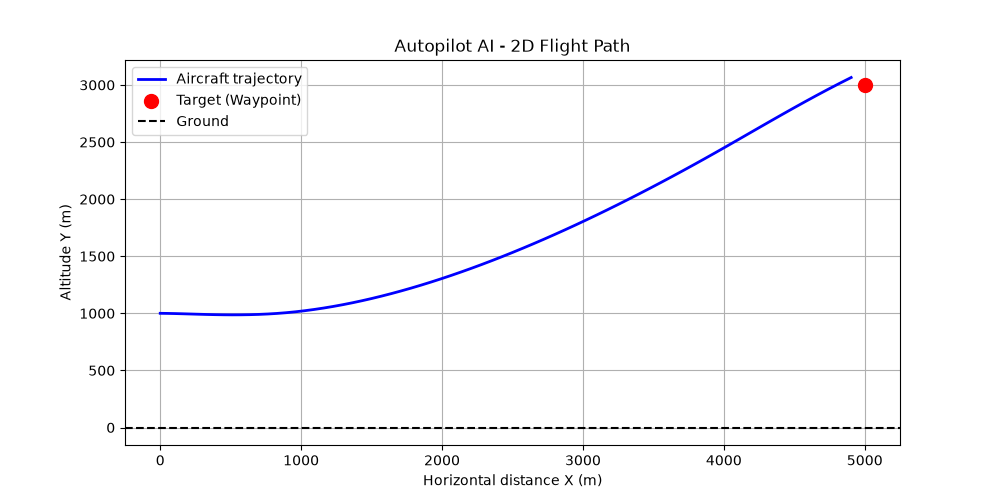
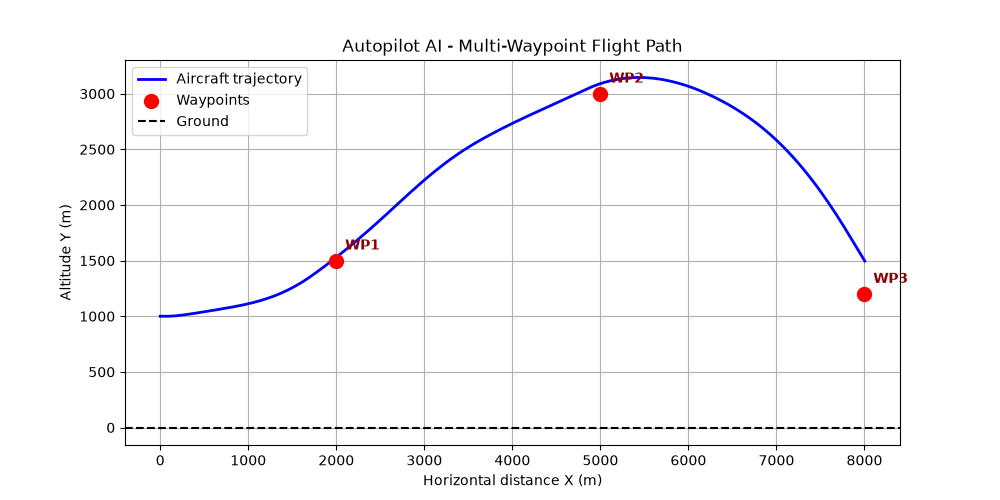
feat(rl): achieve full 3/3 waypoint navigation with descent policy
- Add explicit vertical/horizontal delta state inputs (dx, dy)
- Enhance pitch response to 0.15 rad for rapid descent maneuvers
- Add targeted reward shaping for altitude loss when target WP is below aircraft
- Confirm full path coverage: WP1 (2000, 1500) -> WP2 (5000, 3000) -> WP3 (8000, 1200)

diff --git a/simu_avion2D.py b/simu_avion2D.py
@@ -9,181 +9,186 @@ from collections import deque
 
 class AvionEnv2D:
 
-    def __init__(self, waypoints=None):
-        if waypoints is None:
-            self.waypoints = [(2000.0, 1500.0), (5000.0, 3000.0), (8000.0, 1200.0)]
-        else:
-            self.waypoints = waypoints
-        self.reset()
+	def __init__(self, waypoints=None):
+		if waypoints is None:
+			self.waypoints = [(2000.0, 1500.0), (5000.0, 3000.0), (8000.0, 1200.0)]
+		else:
+			self.waypoints = waypoints
+		self.reset()
 
-    def reset(self):
-        self.x = 0.0
-        self.y = 1000.0
-        self.vx = 50.0
-        self.vy = 0.0
-        self.angle = 0.0
-        self.current_wp_idx = 0
-        self.target_x, self.target_y = self.waypoints[self.current_wp_idx]
-        return self._get_state()
+	def reset(self):
+		self.x = 0.0
+		self.y = 1000.0
+		self.vx = 50.0
+		self.vy = 0.0
+		self.angle = 0.0
+		self.current_wp_idx = 0
+		self.target_x, self.target_y = self.waypoints[self.current_wp_idx]
+		return self._get_state()
 
-    def _get_state(self):
-        dx = self.target_x - self.x
-        dy = self.target_y - self.y
-        dist = math.hypot(dx, dy)
-        angle_cible = math.atan2(dy, dx)
+	def _get_state(self):
+		dx = self.target_x - self.x
+		dy = self.target_y - self.y
+		dist = math.hypot(dx, dy)
+		angle_cible = math.atan2(dy, dx)
 
-        erreur_angle = math.atan2(math.sin(angle_cible - self.angle), math.cos(angle_cible - self.angle))
+		erreur_angle = math.atan2(math.sin(angle_cible - self.angle), math.cos(angle_cible - self.angle))
 
-        dist_norm = min(dist / 10000.0, 1.0)
-        err_angle_norm = erreur_angle / math.pi
-        vx_norm = self.vx / 100.0
-        vy_norm = self.vy / 50.0
-        angle_norm = self.angle / (math.pi / 4.0)
-        return np.array([dist_norm, err_angle_norm, vx_norm, vy_norm, angle_norm], dtype=np.float32)
+		dx_norm = np.clip(dx / 5000.0, -1.0, 1.0)
+		dy_norm = np.clip(dy / 3000.0, -1.0, 1.0)
+		err_angle_norm = erreur_angle / math.pi
+		vx_norm = self.vx / 100.0
+		vy_norm = self.vy / 50.0
+		return np.array([dx_norm, dy_norm, err_angle_norm, vx_norm, vy_norm], dtype=np.float32)
 
-    def step(self, action):
-        if action == 0:
-            self.angle += 0.08
-        elif action == 2:
-            self.angle -= 0.08
+	def step(self, action):
+		if action == 0:
+			self.angle += 0.15
+		elif action == 2:
+			self.angle -= 0.15
 
-        self.angle = np.clip(self.angle, -math.pi/3, math.pi/3)
+		self.angle = np.clip(self.angle, -math.pi/3, math.pi/3)
 
-        poussee = 25.0
-        gravite = 9.81
-        frottement = 0.98
+		poussee = 25.0
+		gravite = 9.81
+		frottement = 0.98
 
-        portance = (self.vx * 0.2) * math.sin(self.angle)
-        ax = poussee * math.cos(self.angle)
-        ay = poussee * math.sin(self.angle) + portance - gravite
+		portance = (self.vx * 0.2) * math.sin(self.angle)
+		ax = poussee * math.cos(self.angle)
+		ay = poussee * math.sin(self.angle) + portance - gravite
 
-        self.vx = (self.vx + ax * 0.1) * frottement
-        self.vy = (self.vy + ay * 0.1) * frottement
+		self.vx = (self.vx + ax * 0.1) * frottement
+		self.vy = (self.vy + ay * 0.1) * frottement
 
-        self.x += self.vx * 0.5
-        self.y += self.vy * 0.5
+		self.x += self.vx * 0.5
+		self.y += self.vy * 0.5
 
-        dist_actuelle = math.hypot(self.target_x - self.x, self.target_y - self.y)
+		dist_actuelle = math.hypot(self.target_x - self.x, self.target_y - self.y)
 
-        dx = self.target_x - self.x
-        dy = self.target_y - self.y
-        angle_cible = math.atan2(dy, dx)
-        erreur_angle = abs(math.atan2(math.sin(angle_cible - self.angle), math.cos(angle_cible - self.angle)))
+		dx = self.target_x - self.x
+		dy = self.target_y - self.y
+		angle_cible = math.atan2(dy, dx)
+		erreur_angle = abs(math.atan2(math.sin(angle_cible - self.angle), math.cos(angle_cible - self.angle)))
 
-        recompense = 3.0 - (3.0 * (erreur_angle / math.pi)) - (dist_actuelle / 2000.0)
+		recompense = 5.0 - (5.0 * (erreur_angle / math.pi)) - (dist_actuelle / 1500.0)
 
-        termine = self.y <= 0 or self.y > 6000.0 or self.x > 12000.0 or self.x < -500.0
+		if dy < -200.0 and self.vy > 5.0:
+			recompense -= 15.0
+		if dx < -200.0 and self.vx < -5.0:
+			recompense += 10.0
 
-        if dist_actuelle < 250.0:
-            recompense += 1000.0
-            self.current_wp_idx += 1
-            if self.current_wp_idx < len(self.waypoints):
-                self.target_x, self.target_y = self.waypoints[self.current_wp_idx]
-            else:
-                recompense += 2000.0
-                termine = True
-        elif termine:
-            recompense -= 1000.0
+		termine = self.y <= 0 or self.y > 6000.0 or self.x > 12000.0 or self.x < -500.0
 
-        return self._get_state(), recompense, termine
+		if dist_actuelle < 300.0:
+			recompense += 1500.0
+			self.current_wp_idx += 1
+			if self.current_wp_idx < len(self.waypoints):
+				self.target_x, self.target_y = self.waypoints[self.current_wp_idx]
+			else:
+				recompense += 3000.0
+				termine = True
+		elif termine:
+			recompense -= 1000.0
+
+		return self._get_state(), recompense, termine
 
 class DQN2D(nn.Module):
 
-    def __init__(self, input_dim=5, output_dim=3):
-        super(DQN2D, self).__init__()
-        self.fc = nn.Sequential(
-            nn.Linear(input_dim, 128),
-            nn.ReLU(),
-            nn.Linear(128, 128),
-            nn.ReLU(),
-            nn.Linear(128, output_dim)
-        )
+	def __init__(self, input_dim=5, output_dim=3):
+		super(DQN2D, self).__init__()
+		self.fc = nn.Sequential(
+			nn.Linear(input_dim, 128),
+			nn.ReLU(),
+			nn.Linear(128, 128),
+			nn.ReLU(),
+			nn.Linear(128, output_dim)
+		)
 
-    def forward(self, x):
-        return self.fc(x)
+	def forward(self, x):
+		return self.fc(x)
 
 class DQNAgent2D:
 
-    def __init__(self):
-        self.model = DQN2D()
-        self.target_model = DQN2D()
-        self.target_model.load_state_dict(self.model.state_dict())
-        self.target_model.eval()
+	def __init__(self):
+		self.model = DQN2D()
+		self.target_model = DQN2D()
+		self.target_model.load_state_dict(self.model.state_dict())
+		self.target_model.eval()
 
-        self.optimizer = optim.Adam(self.model.parameters(), lr=0.0005)
-        self.criterion = nn.MSELoss()
-        self.memory = deque(maxlen=50000)
-        self.gamma = 0.99
-        self.epsilon = 1.0
-        self.epsilon_min = 0.02
-        self.epsilon_decay = 0.993
-        self.batch_size = 64
-        self.train_step_count = 0
+		self.optimizer = optim.Adam(self.model.parameters(), lr=0.0005)
+		self.criterion = nn.MSELoss()
+		self.memory = deque(maxlen=50000)
+		self.gamma = 0.99
+		self.epsilon = 1.0
+		self.epsilon_min = 0.02
+		self.epsilon_decay = 0.994
+		self.batch_size = 64
+		self.train_step_count = 0
 
-    def choisir_action(self, state):
-        if random.random() < self.epsilon:
-            return random.randint(0, 2)
-        state_t = torch.FloatTensor(state).unsqueeze(0)
-        with torch.no_grad():
-            q_values = self.model(state_t)
-        return torch.argmax(q_values).item()
+	def choisir_action(self, state):
+		if random.random() < self.epsilon:
+			return random.randint(0, 2)
+		state_t = torch.FloatTensor(state).unsqueeze(0)
+		with torch.no_grad():
+			q_values = self.model(state_t)
+		return torch.argmax(q_values).item()
 
-    def remember(self, state, action, reward, next_state, done):
-        self.memory.append((state, action, reward, next_state, done))
+	def remember(self, state, action, reward, next_state, done):
+		self.memory.append((state, action, reward, next_state, done))
 
-    def train_step(self):
-        if len(self.memory) < self.batch_size:
-            return
+	def train_step(self):
+		if len(self.memory) < self.batch_size:
+			return
 
-        batch = random.sample(self.memory, self.batch_size)
-        states, actions, rewards, next_states, dones = zip(*batch)
+		batch = random.sample(self.memory, self.batch_size)
+		states, actions, rewards, next_states, dones = zip(*batch)
 
-        states_t = torch.FloatTensor(np.array(states))
-        actions_t = torch.LongTensor(actions).unsqueeze(1)
-        rewards_t = torch.FloatTensor(rewards).unsqueeze(1)
-        next_states_t = torch.FloatTensor(np.array(next_states))
-        dones_t = torch.FloatTensor(dones).unsqueeze(1)
+		states_t = torch.FloatTensor(np.array(states))
+		actions_t = torch.LongTensor(actions).unsqueeze(1)
+		rewards_t = torch.FloatTensor(rewards).unsqueeze(1)
+		next_states_t = torch.FloatTensor(np.array(next_states))
+		dones_t = torch.FloatTensor(dones).unsqueeze(1)
 
-        current_q = self.model(states_t).gather(1, actions_t)
+		current_q = self.model(states_t).gather(1, actions_t)
 
-        with torch.no_grad():
-            max_next_q = self.target_model(next_states_t).max(1)[0].unsqueeze(1)
-            target_q = rewards_t + (1 - dones_t) * self.gamma * max_next_q
+		with torch.no_grad():
+			max_next_q = self.target_model(next_states_t).max(1)[0].unsqueeze(1)
+			target_q = rewards_t + (1 - dones_t) * self.gamma * max_next_q
 
-        loss = self.criterion(current_q, target_q)
-        self.optimizer.zero_grad()
-        loss.backward()
-        self.optimizer.step()
+		loss = self.criterion(current_q, target_q)
+		self.optimizer.zero_grad()
+		loss.backward()
+		self.optimizer.step()
 
-        self.train_step_count += 1
-        if self.train_step_count % 500 == 0:
-            self.target_model.load_state_dict(self.model.state_dict())
+		self.train_step_count += 1
+		if self.train_step_count % 500 == 0:
+			self.target_model.load_state_dict(self.model.state_dict())
 
-    def update_epsilon(self):
-        if self.epsilon > self.epsilon_min:
-            self.epsilon *= self.epsilon_decay
+	def update_epsilon(self):
+		if self.epsilon > self.epsilon_min:
+			self.epsilon *= self.epsilon_decay
 
 env = AvionEnv2D()
 agent = DQNAgent2D()
 
 print("----BEGIN OF MULTI-WAYPOINT TRAIN----")
-for ep in range(600):
-    state = env.reset()
-    total_reward = 0
-    for t in range(500):
-        action = agent.choisir_action(state)
-        next_state, reward, done = env.step(action)
-        agent.remember(state, action, reward, next_state, done)
-        agent.train_step()
-        state = next_state
-        total_reward += reward
-        if done:
-            break
+for ep in range(700):
+	state = env.reset()
+	total_reward = 0
+	for t in range(500):
+		action = agent.choisir_action(state)
+		next_state, reward, done = env.step(action)
+		agent.remember(state, action, reward, next_state, done)
+		agent.train_step()
+		state = next_state
+		total_reward += reward
+		if done:
+			break
 
-    agent.update_epsilon()
+	agent.update_epsilon()
 
-    if (ep + 1) % 50 == 0:
-        print(f"Episode {ep+1:03d}/600 | Score: {total_reward:.1f} | Epsilon: {agent.epsilon:.3f} | WP Reach: {env.current_wp_idx}/{len(env.waypoints)} | Final Pos: X={env.x:.0f}m, Y={env.y:.0f}m")
+	if (ep + 1) % 50 == 0:
+		print(f"Episode {ep+1:03d}/700 | Score: {total_reward:.1f} | Epsilon: {agent.epsilon:.3f} | WP Reach: {env.current_wp_idx}/{len(env.waypoints)} | Final Pos: X={env.x:.0f}m, Y={env.y:.0f}m")
 
 torch.save(agent.model.state_dict(), "modele_avion_2d.pt")
 print("Model saved to 'modele_avion_2d.pt'")
@@ -196,19 +201,19 @@ history_x = [env.x]
 history_y = [env.y]
 
 for t in range(500):
-    action = agent.choisir_action(state)
-    next_state, reward, done = env.step(action)
-    state = next_state
+	action = agent.choisir_action(state)
+	next_state, reward, done = env.step(action)
+	state = next_state
 
-    history_x.append(env.x)
-    history_y.append(env.y)
+	history_x.append(env.x)
+	history_y.append(env.y)
 
-    wp_idx_safe = min(env.current_wp_idx, len(env.waypoints) - 1)
-    if t % 25 == 0 or done:
-        print(f"t={t:03d}s | Pos: ({env.x:.0f}m, {env.y:.0f}m) | Target WP{wp_idx_safe+1}: ({env.target_x:.0f}m, {env.target_y:.0f}m)")
-    if done:
-        print(f"End of Flight! Waypoints validated: {env.current_wp_idx}/{len(env.waypoints)}")
-        break
+	wp_idx_safe = min(env.current_wp_idx, len(env.waypoints) - 1)
+	if t % 25 == 0 or done:
+		print(f"t={t:03d}s | Pos: ({env.x:.0f}m, {env.y:.0f}m) | Target WP{wp_idx_safe+1}: ({env.target_x:.0f}m, {env.target_y:.0f}m)")
+	if done:
+		print(f"End of Flight! Waypoints validated: {env.current_wp_idx}/{len(env.waypoints)}")
+		break
 
 plt.figure(figsize=(10, 5))
 plt.plot(history_x, history_y, label="Aircraft trajectory", color='blue', linewidth=2)
